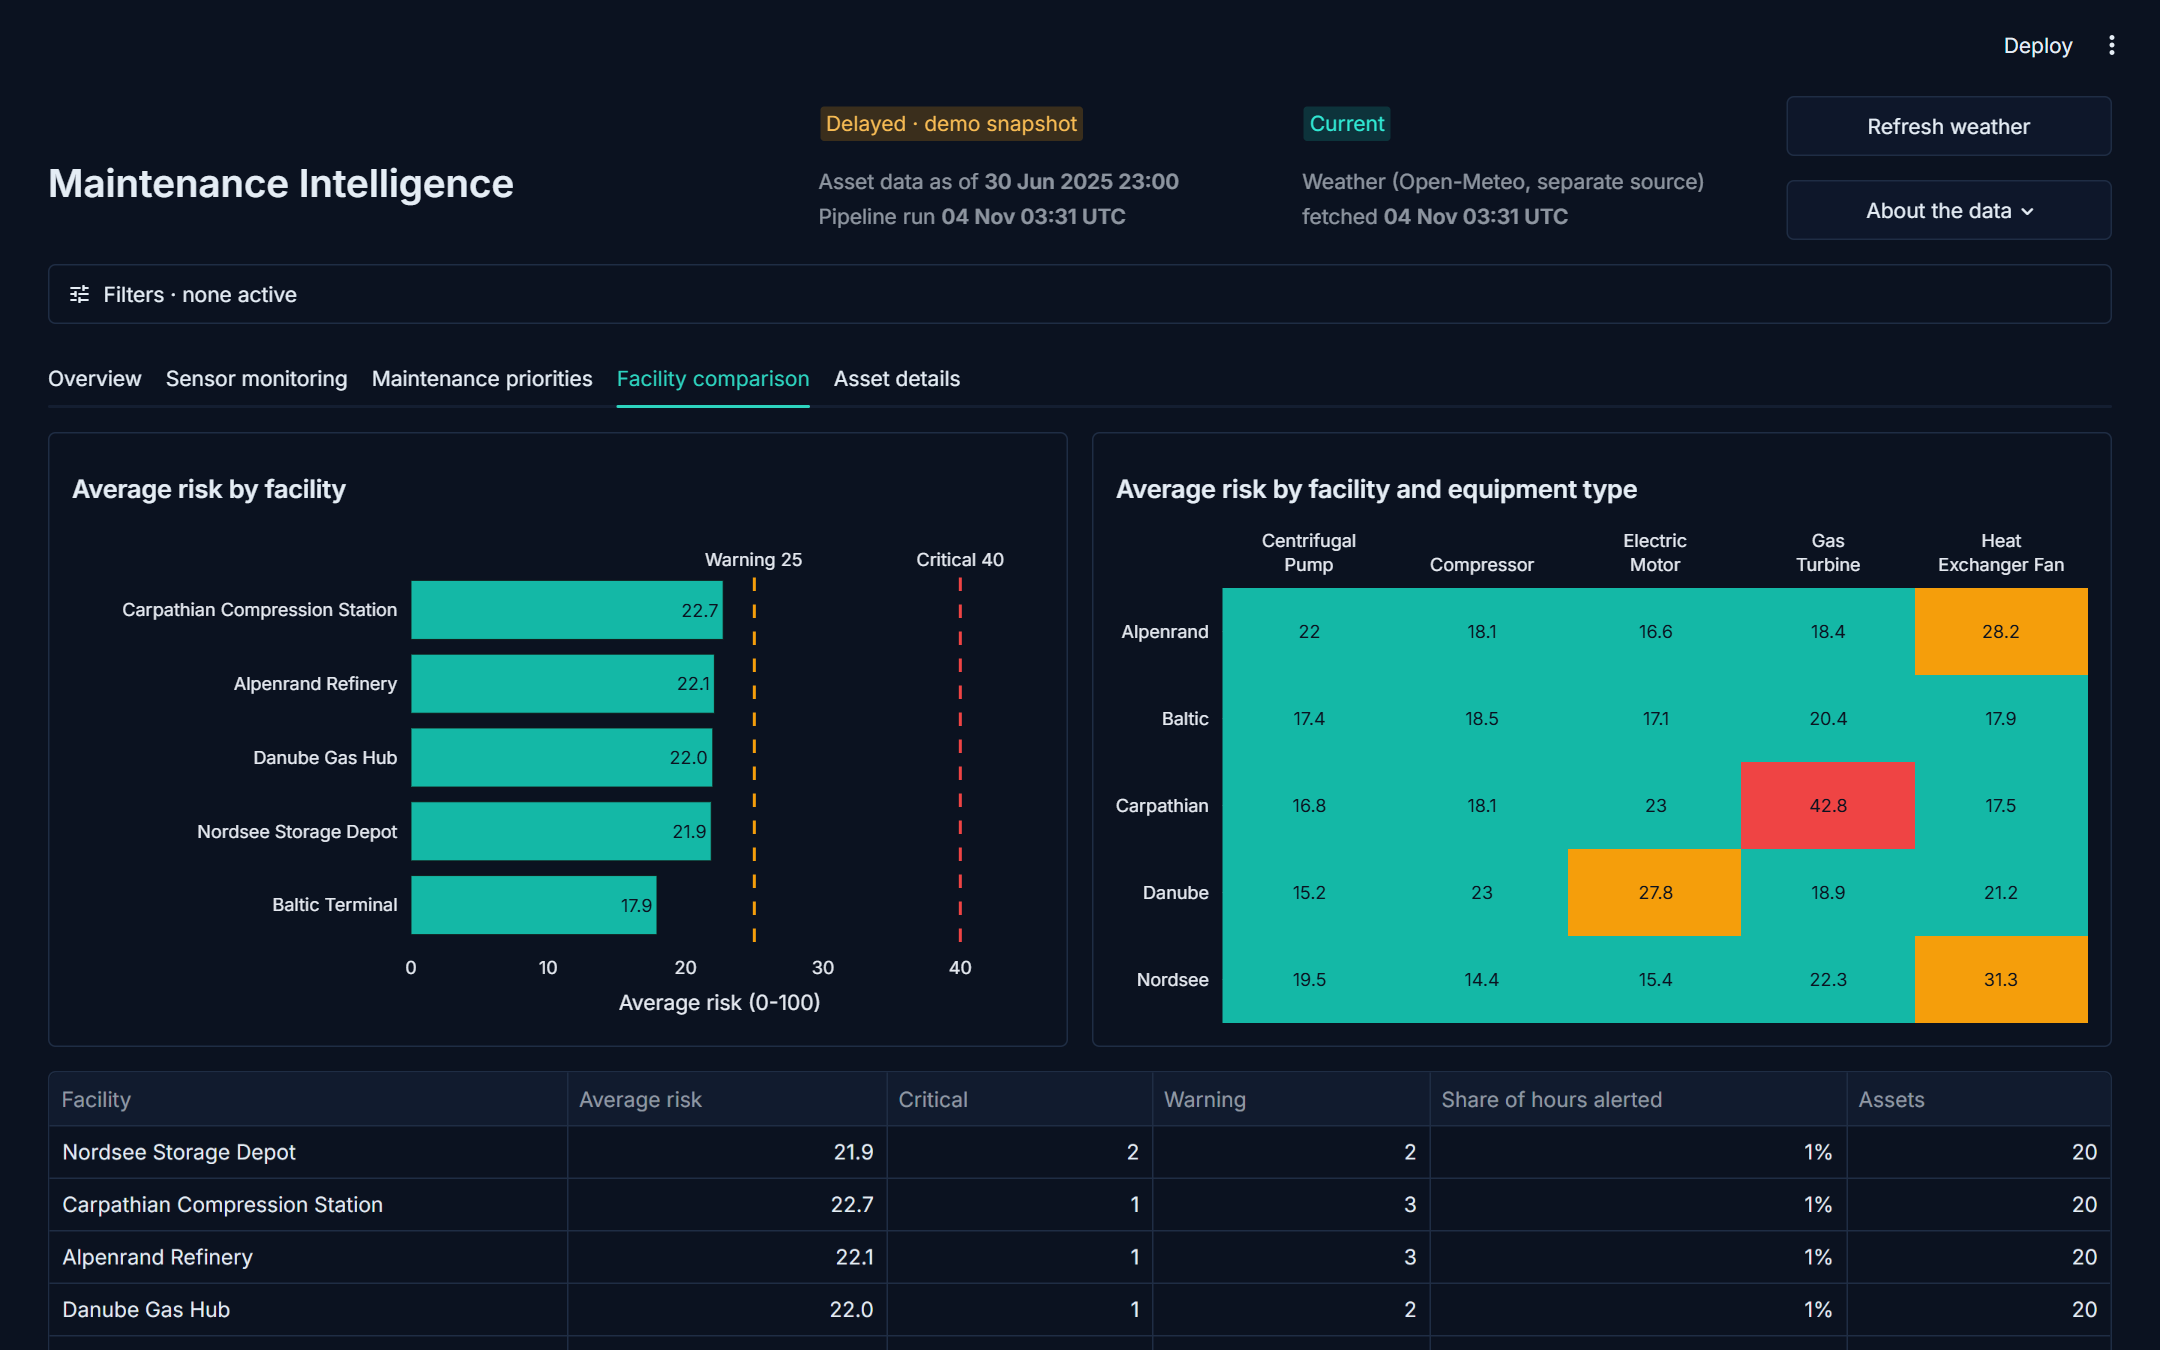
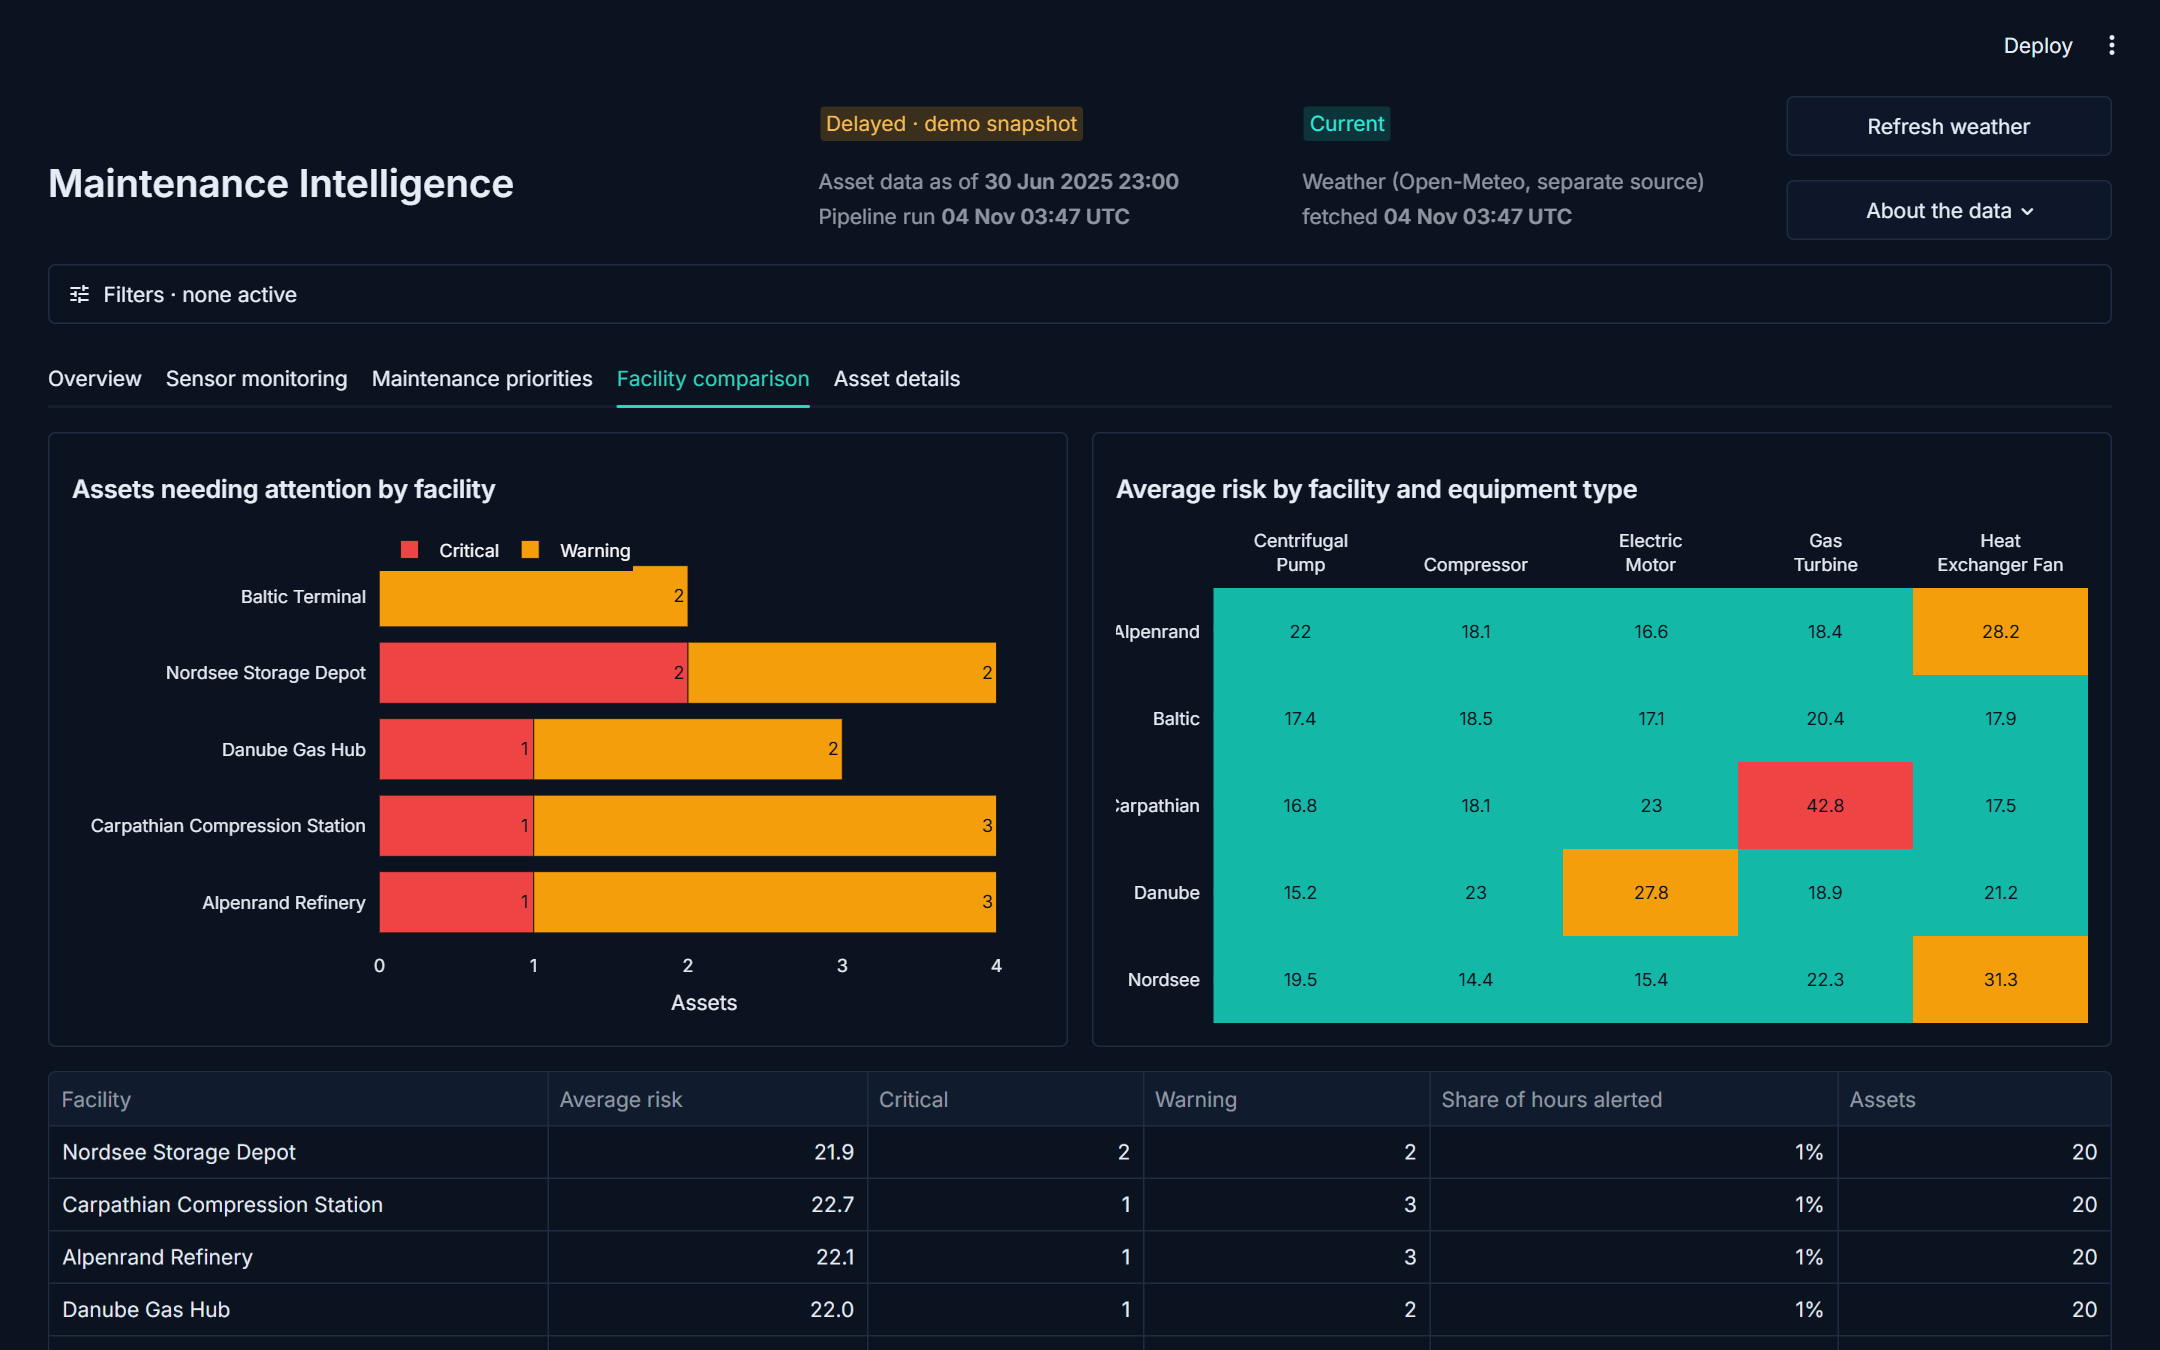
Investigate buttons, peak vs latest deviation, facility counts, clearer labels

diff --git a/app.py b/app.py
@@ -80,12 +80,15 @@ def table(data, **kw):
     st.dataframe(data, **{"width": "stretch", "alt": "Data table", **kw})
 
 
-def open_asset():
-    """Row selected in the priorities table: jump to that asset in the Asset details tab."""
-    rows = ss.prio.selection.rows
-    if rows:
-        ss["d"], ss["tab"] = ss["prio_ids"][rows[0]], "Asset details"
+def go(asset):
+    ss["d"], ss["tab"] = asset, "Asset details"
 
+
+def open_asset(key):
+    """Row selected in a priorities table: jump to that asset in the Asset details tab."""
+    rows = ss[key].selection.rows
+    if rows:
+        go(ss[f"{key}_ids"][rows[0]])
 
 def reset():
     st.session_state.update(fsel=[], tsel=[], period="30", asof=LAST.date())
@@ -165,8 +168,9 @@ with tabs[0]:
         with col.container(border=True):
             st.badge(STATUS[r.level], color={"High": "red", "Medium": "orange", "Low": "green"}[r.level])
             st.markdown(f"**{r.asset_id}** · {r.asset_name}  \n{r.facility}")
-            st.metric("Risk score", f"{r.risk:.0f}", None if pd.isna(r.change) else f"{r.change:+.1f} vs 7 d earlier", delta_color="inverse")
+            st.markdown(f"### {r.risk:.0f} risk" + ("" if pd.isna(r.change) else f"  \n{":red" if r.change > 0 else ":green"}[{r.change:+.1f} vs 7 d earlier]"))
             st.caption(r.explanation)
+            st.button("Investigate", key=f"go_{r.asset_id}", on_click=go, args=(r.asset_id,), icon=":material/arrow_forward:", width="stretch")
 
     for col, (lbl, val, sub, delta) in zip(st.columns(4), [
             ("Assets monitored", len(T), f"Across {T.facility.nunique()} facilities", None),
@@ -181,7 +185,7 @@ with tabs[0]:
         top = T.head(10).reset_index(drop=True)
         ss["prio_ids"] = list(top.asset_id)
         table(tint(top.assign(rank=top.index + 1)[["rank", "asset_id", "asset_name", "facility", "driver_label", "peak_z", "risk", "change", "status"]], ["status"]),
-                           hide_index=True, width="stretch", on_select=open_asset, selection_mode="single-row", key="prio", alt="Top 10 maintenance priorities, ranked by risk score. Select a row to open the asset.", column_config={
+                           hide_index=True, width="stretch", on_select=lambda: open_asset("prio"), selection_mode="single-row", key="prio", alt="Top 10 maintenance priorities, ranked by risk score. Select a row to open the asset.", column_config={
             "rank": st.column_config.NumberColumn("#", width="small"), "asset_id": "Asset ID", "asset_name": "Equipment", "facility": "Facility",
             "driver_label": "Main driver", "peak_z": st.column_config.NumberColumn("Peak deviation (σ)", format="%+.1f"),
             "risk": st.column_config.NumberColumn("Risk score (0-100)", format="%.0f"), "change": st.column_config.NumberColumn("Change vs 7 d", format="%+.1f"), "status": "Severity"})
@@ -239,7 +243,7 @@ with tabs[1]:
     c = st.columns([2, 1, 1], vertical_alignment="bottom")
     a = c[0].selectbox("Asset", list(T.asset_id), format_func=lambda x: f"{x} · {T.set_index('asset_id').asset_name[x]}", key="m")
     s = c[1].selectbox("Sensor", ["All"] + SENSORS)
-    truth = c[2].toggle("Show injected truth", False, help="Orange bands = synthetic fault episodes (evaluation labels)")
+    truth = c[2].toggle("Show simulated fault periods", False, help="Orange bands mark the faults injected into the synthetic data. They are evaluation labels, not model output.")
     show(sensor_fig(a, SENSORS if s == "All" else [s], as_of - pd.Timedelta(days=period), as_of, truth), alt=f"Sensor readings for {a} over the last {period} days with model alerts")
     st.caption("Red dots are hours when the model flagged the asset as a whole (all four sensors together), so they appear on every chart, even where that sensor looks normal. Standby hours read low.")
 
@@ -247,25 +251,25 @@ with tabs[2]:
     n = int(st.columns([1, 4])[0].number_input("Show top N assets", 1, len(T), min(15, len(T)), help=f"Shows the N highest-risk assets after filtering ({len(T)} match). Type a number or use +/-."))
     top = T.head(n)
     cols = ["asset_id", "asset_type", "facility", "criticality", "driver_label", "peak_z", "risk", "change", "status", "explanation"]
-    table(tint(top[cols].reset_index(drop=True), ["status"]), width="stretch", hide_index=True, height=min(740, 38 + 35 * n), alt="Maintenance priorities with driver, deviation, risk, severity and explanation", column_config={
+    ss["prio2_ids"] = list(top.asset_id)
+    table(tint(top[cols].reset_index(drop=True), ["status"]), width="stretch", hide_index=True, height=min(740, 38 + 35 * n), on_select=lambda: open_asset("prio2"), selection_mode="single-row", key="prio2", alt="Maintenance priorities with driver, deviation, risk, severity and explanation. Select a row to open the asset.", column_config={
         "asset_id": "Asset", "asset_type": "Type", "facility": "Facility", "criticality": "Criticality", "status": "Status",
         "driver_label": "Main driver", "peak_z": st.column_config.NumberColumn("Peak deviation (σ)", format="%+.1f"), "change": st.column_config.NumberColumn("Change vs 7 d", format="%+.1f"),
         "explanation": st.column_config.TextColumn("Why", width="large"),
         "risk": st.column_config.NumberColumn("Risk (0-100)", format="%.1f")})
     st.download_button("Download ranking (CSV)", top[cols].to_csv(index=False), "maintenance_priorities.csv")
-    st.caption("risk = 100 × (0.5·sensor deviation + 0.3·alert share + 0.2·maintenance overdue) × criticality multiplier (0.7–1.0)")
+    st.caption("Select a row to open that asset in Asset details. risk = 100 × (0.5·sensor deviation + 0.3·alert share + 0.2·maintenance overdue) × criticality multiplier (0.7–1.0)")
 
 with tabs[3]:
     g = T.groupby("facility").agg(avg_risk=("risk", "mean"), critical=("level", lambda x: (x == "High").sum()),
                                   warning=("level", lambda x: (x == "Medium").sum()), alert_share=("alert_share", "mean"), assets=("asset_id", "count")).reset_index()
     a, b = st.columns(2)
     with a.container(border=True):
-        st.subheader("Average risk by facility")
-        show(px.bar(g.sort_values("avg_risk"), x="avg_risk", y="facility", orientation="h", text_auto=".1f", color="avg_risk", color_continuous_scale=SCALE, range_color=(15, 45),
-                    labels={"avg_risk": "Average risk (0-100)", "facility": ""})
-             .update_traces(textfont_color="#0b1220").add_vline(x=25, line_dash="dash", line_color="#f59e0b", annotation_text="Warning 25", annotation_position="top")
-             .add_vline(x=40, line_dash="dash", line_color="#ef4444", annotation_text="Critical 40", annotation_position="top")
-             .update_xaxes(range=[0, 45]).update_layout(height=H, coloraxis_showscale=False, margin=dict(l=0, r=10, t=30, b=0)), alt="Average risk by facility, with warning and critical limits")
+        st.subheader("Assets needing attention by facility")
+        nc = T.groupby(["facility", "status"]).size().reset_index(name="assets")
+        show(px.bar(nc[nc.status != "Normal"], x="assets", y="facility", color="status", orientation="h", text_auto=True,
+                    color_discrete_map={"Critical": COLORS["High"], "Warning": COLORS["Medium"]}, category_orders={"status": ["Critical", "Warning"]}, labels={"assets": "Assets", "facility": "", "status": ""})
+             .update_traces(textfont_color="#0b1220").update_xaxes(dtick=1).update_layout(height=H, margin=dict(l=0, r=10, t=0, b=0), legend=dict(orientation="h", y=1.08)), alt="Number of critical and warning assets per facility")
     with b.container(border=True):
         st.subheader("Average risk by facility and equipment type")
         pv = T.pivot_table(index="facility", columns="asset_type", values="risk", aggfunc="mean").round(1)
@@ -293,15 +297,19 @@ with tabs[4]:
         c[1].metric("Facility", row.facility)
         c[2].metric("Criticality", f"{row.criticality}/5")
         c[3].metric("Installed", int(row.install_year))
-    st.markdown(f"**Diagnostic findings, 7 days to {as_of:%d %b %Y}.** {row.explanation}. The chart below shows the reading right now, which can be lower than the peak.")
-    now = R[(R.asset_id == a) & (R.timestamp == as_of)]
-    if not now.empty:
-        z = now[P.RC].iloc[0].rename(lambda x: DRV[x[3:]]).rename("Deviation (σ)").reset_index()
-        z["Level"] = z["Deviation (σ)"].abs().map(lambda v: "Outside ±3σ" if v > 3 else "Within normal range")
-        show(px.bar(z, x="Deviation (σ)", y="index", orientation="h", color="Level", color_discrete_map={"Outside ±3σ": COLORS["High"], "Within normal range": "#64748b"},
-                               title=f"Deviation from own baseline right now (6 h mean to {as_of:%d %b %Y %H:%M}); red = outside ±3σ")
-                        .add_vline(x=0, line_color="#94a3b8").add_vline(x=3, line_dash="dash", line_color="#475569").add_vline(x=-3, line_dash="dash", line_color="#475569")
-                        .update_layout(height=250, yaxis_title=None, showlegend=False), width="stretch")
+    st.markdown(f"**Why flagged.** {row.explanation}.")
+    w7 = R[(R.asset_id == a) & (R.timestamp > as_of - WEEK) & (R.timestamp <= as_of)]
+    if not w7.empty:
+        peak = w7[P.RC].apply(lambda s: s.loc[s.abs().idxmax()] if s.notna().any() else float("nan"))
+        last = w7[P.RC].iloc[-1]
+        z = pd.DataFrame({"Sensor": [DRV[c[3:]] for c in P.RC] * 2, "Deviation (σ)": list(peak) + list(last),
+                          "Reading": ["Peak, last 7 days"] * 4 + [f"Latest (6 h mean to {as_of:%d %b %H:%M})"] * 4})
+        show(px.bar(z, x="Deviation (σ)", y="Sensor", color="Reading", orientation="h", barmode="group",
+                    color_discrete_map={"Peak, last 7 days": "#e5edf5", f"Latest (6 h mean to {as_of:%d %b %H:%M})": "#64748b"},
+                    title="Deviation from own baseline: 7-day peak vs latest reading (dashed lines = ±3σ)")
+             .add_vline(x=0, line_color="#94a3b8").add_vline(x=3, line_dash="dash", line_color="#475569").add_vline(x=-3, line_dash="dash", line_color="#475569")
+             .update_layout(height=300, yaxis_title=None, legend=dict(orientation="h", y=-0.2, title=None)), alt="Peak versus latest deviation from baseline for each sensor")
+        st.caption("A high peak with a low latest value means the condition has eased since; both high means it is still ongoing.")
     show(sensor_fig(a, SENSORS, as_of - pd.Timedelta(days=30), as_of), width="stretch", key="detail_trend")
     st.subheader("Maintenance history")
     mh = D["maint"][D["maint"].asset_id == a].sort_values("date", ascending=False).drop(columns=["asset_id"])

diff --git a/README.md b/README.md
@@ -34,8 +34,11 @@ Both versions are Streamlit apps on the same analysis (`mi/`), so the risk score
 | Accessibility | Charts and tables without text descriptions | Every chart and table has an accessible description; sentence-case labels | Screen-reader users can identify each element. |
 | First screen | Four totals, then a table | **Inspect next**: the top three assets with severity, risk, change versus 7 days earlier and the reason; KPIs show change versus 7 days earlier | Answers what to inspect first, and whether it is getting worse. |
 | Sharing | Only the tab was in the link | Filters, risk date and selected asset are also in the link (?site=..&period=7&asset=A061) | A colleague opens the same view. |
-| Facility view | Average risk per facility, which hides a single bad asset | Count of critical and warning assets per facility, with averages kept in the table | One failing asset is no longer averaged away. |
+| Facility view | Average risk per facility, which hides a single bad asset | Count of critical and warning assets per facility on the Overview and Facility comparison tabs, with averages kept in the table and heatmap | One failing asset is no longer averaged away. |
 | Alert wording | Red dots on every sensor chart without explanation | Caption explains the model flags the whole asset, so dots appear on every chart | Avoids reading a sensor-specific fault into them. |
+| Acting on a signal | Cards and tables were read-only | Each Inspect next card has an **Investigate** button; rows in both priorities tables open the asset | One click from a signal to its evidence. |
+| Asset details | A 'right now' chart that seemed to contradict the 7-day peak | **7-day peak vs latest reading** side by side per sensor, with a plain-language caption | Explains how a recovering asset can still carry a high risk score. |
+| Sensor labels | 'Show injected truth' | 'Show simulated fault periods' | Plain wording for an evaluation setting. |
 | Small screens | Status badges wrapped over several lines | Badges stay on one line and stack cleanly on phones | Usable on a phone. |
 
 | Version 1 | Version 2 |
